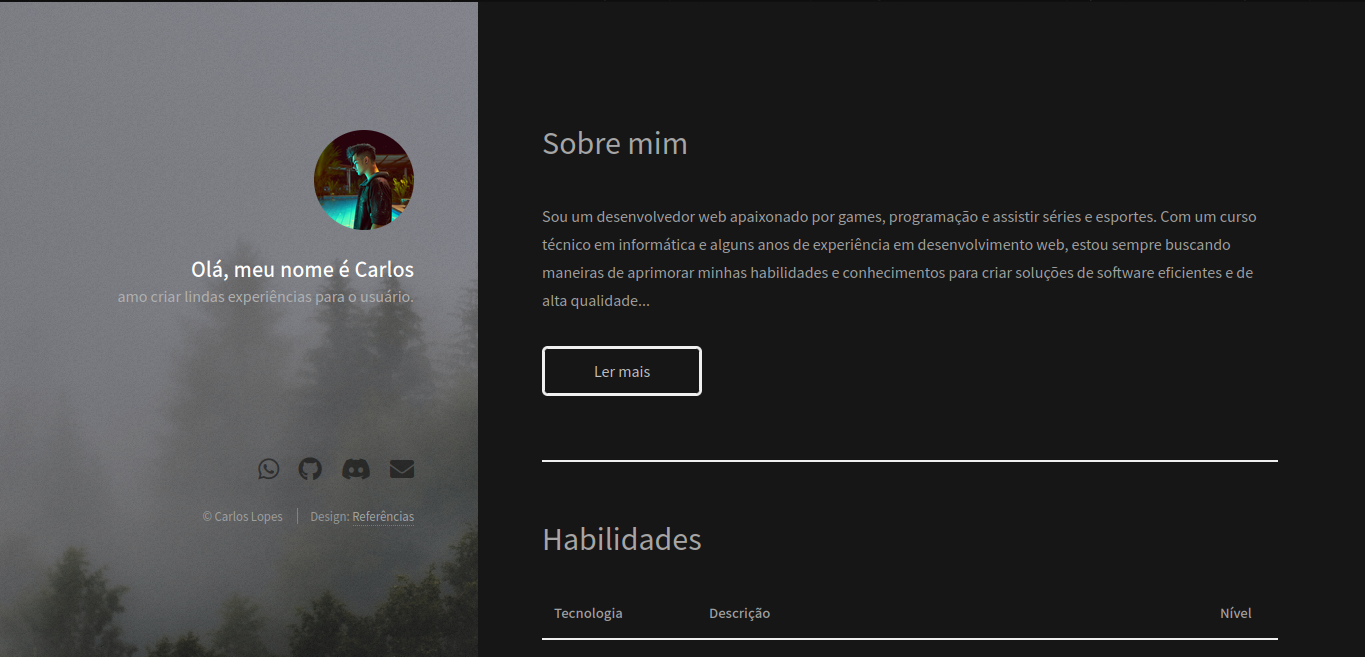
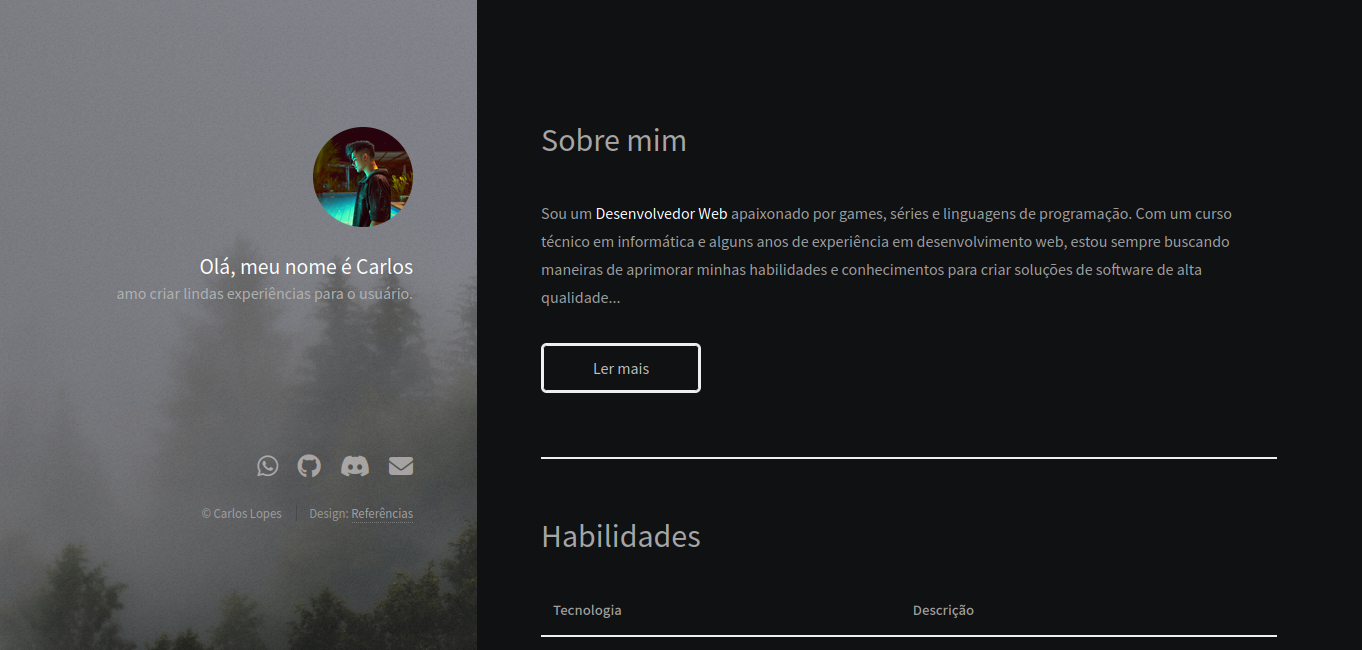
refactor: delete unsefull css && new images

diff --git a/README.md b/README.md
@@ -62,17 +62,17 @@ Uma lista de atalhos que levam diretamente ao repositório selecionado.
 - [Biblioteca](https://github.com/LopesLs/DesenvolvimentoWeb/tree/main/Projeto02-(Biblioteca))
 - [Biblioteca Update](https://github.com/LopesLs/DesenvolvimentoWeb/tree/main/Projeto03-(BibliotecaUpdate))
 - [Paragrafo](https://github.com/LopesLs/DesenvolvimentoWeb/tree/main/Projeto04-(Paragrafo))
-- [Botoes](https://github.com/LopesLs/DesenvolvimentoWeb/tree/main/Projeto05-(Botoes))
+- [Botões](https://github.com/LopesLs/DesenvolvimentoWeb/tree/main/Projeto05-(Botoes))
 - [Locadora](https://github.com/LopesLs/DesenvolvimentoWeb/tree/main/Projeto06-(Locadora))
 - [Git](https://github.com/LopesLs/DesenvolvimentoWeb/tree/main/Projeto07-(Git))
 - [Js](https://github.com/LopesLs/DesenvolvimentoWeb/tree/main/Projeto08-(Js))
-- [Equacoes](https://github.com/LopesLs/DesenvolvimentoWeb/tree/main/Projeto09-(Equacoes))
+- [Equacões](https://github.com/LopesLs/DesenvolvimentoWeb/tree/main/Projeto09-(Equacoes))
 - [Formulario](https://github.com/LopesLs/DesenvolvimentoWeb/tree/main/Projeto10-(Formulario))
 - [Github](https://github.com/LopesLs/DesenvolvimentoWeb/tree/main/Projeto11-(Github))
 - [Acessibilidade](https://github.com/LopesLs/DesenvolvimentoWeb/tree/main/Projeto12-(Acessibilidade))
 - [Interatividade](https://github.com/LopesLs/DesenvolvimentoWeb/tree/main/Projeto13-(Interatividade))
 - [Single Page](https://github.com/LopesLs/DesenvolvimentoWeb/tree/main/Projeto14-(SinglePage))
-- [Portifolio](https://github.com/LopesLs/DesenvolvimentoWeb/tree/main/Projeto15-(Portfolio))
+- [Portfólio](https://github.com/LopesLs/DesenvolvimentoWeb/tree/main/Projeto15-(Portfolio))
 
 <br>
 
